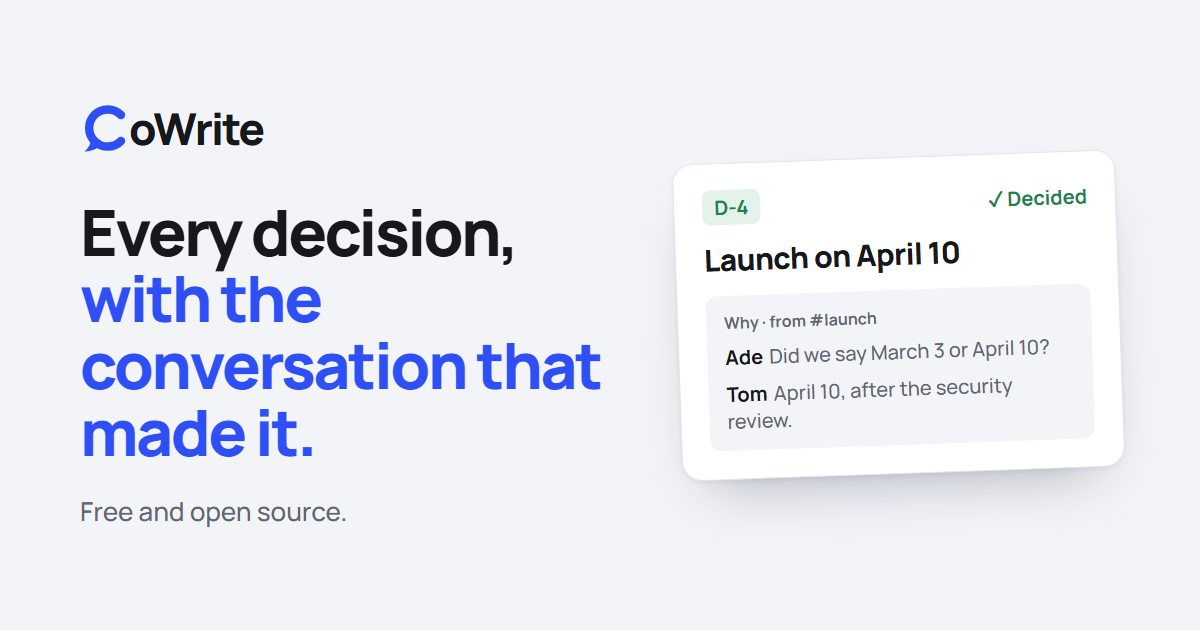
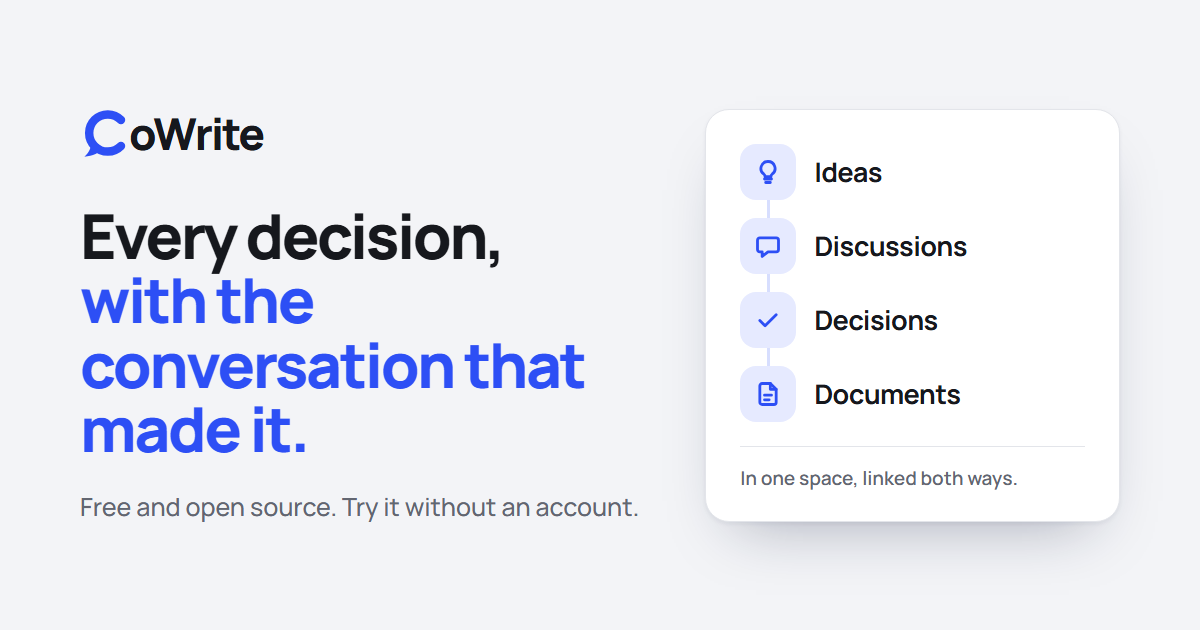
Show what a space holds in the link preview, not an example launch date
The old preview image showed an example decision, "Launch on April 10",
which could read as CoWrite's own launch date. The new one shows the
logo, the headline, and the four parts of a space: ideas, discussions,
decisions, and documents, in one space and linked both ways.

diff --git a/public/landing/index.html b/public/landing/index.html
@@ -33,7 +33,7 @@ FORM: structure 5 of 7 (the scattered stack collapses), staged inside the app's 
 <meta property="og:image" content="https://cowrite.cowrite.workers.dev/landing/og.png">
 <meta property="og:image:width" content="1200">
 <meta property="og:image:height" content="630">
-<meta property="og:image:alt" content="The CoWrite headline next to decision D-4, “Launch on April 10”, with the two messages that decided it.">
+<meta property="og:image:alt" content="The CoWrite logo and headline, “Every decision, with the conversation that made it”, next to the four parts of a space: ideas, discussions, decisions, and documents.">
 <meta name="twitter:card" content="summary_large_image">
 <script>try { const t = localStorage.getItem('theme'); if (t === 'light' || t === 'dark') document.documentElement.dataset.theme = t } catch {}</script>
 </head>
